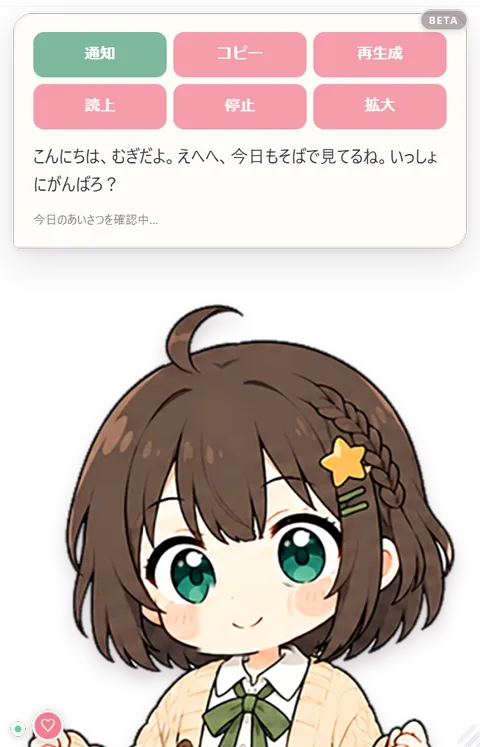
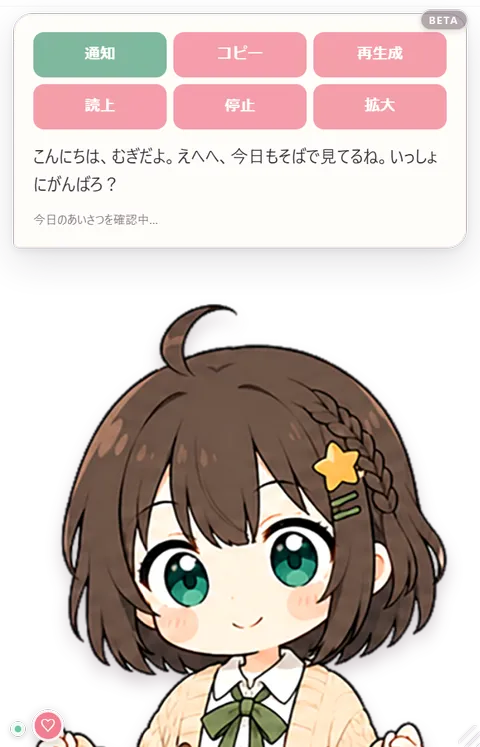
fix: 小型表示形式の紹介画像を高密度で再撮影 (#112)

Changed region(s): [[0.125, 0.4003, 0.9688, 1.0], [0.0312, 0.9545, 0.2188, 1.0], [0.5625, 0.5234, 0.5938, 0.5542]]

diff --git a/docs/CODEX-TASKS.md b/docs/CODEX-TASKS.md
@@ -2,8 +2,7 @@
 
 **直しきれなかった・環境がなくて確認できなかった項目**をここへ作業指示としてまとめる。判断の理由は
 レビュー記録、進行状況は `HANDOFF.md`、ルールは `AGENTS.md` が持ち場。ここは「次に手を動かす内容」だけ。
-現在の内容は 2026-08-13 のレビュー2巡（`docs/REVIEW-LOG.md` の「ベータ公開分の事後レビュー」）の残件と、
-2026-08-14 に追加した依存ライブラリの検討分。
+現在の内容は、完了済み項目を除いたレビュー残件と依存ライブラリの検討分。
 
 > **依存ライブラリを足すときに先に読むもの: [LIBRARY-CANDIDATES.md](LIBRARY-CANDIDATES.md)。**
 > `ui/vendor/` へ依存を置くときの制約（CSP、拡張子 allowlist、`bundle_scope.rs` の走査除外）と、
@@ -13,24 +12,6 @@
 着手したら、完了条件まで満たしてから `docs/REVIEW-LOG.md` の該当行を更新し、この項目を消す。
 
 ---
-
-## P0-1. ベータNSISを作り直して公開しなおす
-
-- **なぜ**: 公開済みの `412,114,239 bytes` / SHA-256 `cdd0…c545c` は、レビューで直した3件の不具合を**含んでいない**。
-  - 外部コマンドのタイムアウトが指定秒数で戻らない（`sh -c` / `powershell -Command` の孫プロセスがパイプを握ると回収待ちで停止）
-  - `BETA` バッジが通常ビルド・販売ビルドにも出る
-  - 文字起こし2スキル・THA3生成の同型の待ち切り
-- **やること**: `.agents/skills/build-picoagent-beta/SKILL.md` の手順どおりに `cargo xtask build-beta --bundles nsis` から再生成し、
-  `distribution/site/latest.json` のサイズ・SHA-256を実ファイルから計算して更新、Release実体と一致させて差し替える。
-- **完了条件**: NSISのサイレントインストール／アンインストール成功、`latest.json` と Release実体のサイズ・SHA-256一致、
-  生成物の `ui-dist/index.html` に `beta-badge` が**ある**こと（ベータなので残るのが正）。
-- **禁止**: 通常 `build` の成果物を使わない。古い成果物を流用・改名しない。
-
-## P0-2. 引き伸ばしのまま同梱されている静止ショット2枚を撮り直す
-
-- **なぜ**: `layout-shot-mascot.webp`（論理360px→480px）と `layout-shot-widget.webp`（440px→480px）は、引き伸ばし禁止ルールが入る前の生成物で、いま同梱・公開されているものが**引き伸ばし画像**のまま。設定画面のレイアウト選択カードと配布ページの表示形式サムネの両方に出ている。
-- **やること**: `deviceScaleFactor: 2` を指定済みなので、`node tools/screenshots/shoot.mjs layout-shot-mascot.webp layout-shot-widget.webp layout-shot-chat.webp` を実行して差し替える。旧 `layout-shot-talk.webp` はLINE風チャットへ統合したため対象外。WebPエンコーダ（`libwebp_anim`）付きのffmpegが要る。
-- **完了条件**: 4枚が480px幅で生成され、引き伸ばし検査に引っかからないこと。設定画面のカードと配布ページのサムネを実表示で確認する。
 
 ## P0-3. 配布ページの画像重量を下げる
 

diff --git a/docs/REVIEW-LOG.md b/docs/REVIEW-LOG.md
@@ -30,6 +30,19 @@
 
 ---
 
+## 2026-08-17 — 小型表示形式の紹介画像再撮影
+
+対象: `layout-shot-mascot.webp`、`layout-shot-widget.webp`、`layout-shot-chat.webp`と設定画面の表示形式カード。
+
+| # | 優先 | 指摘・確認 | 判定 | 対応・根拠 |
+|---|---|---|---|---|
+| 1 | P0 | マスコットとウィジェットの紹介画像が、実画面より小さい入力を480pxへ引き伸ばした旧成果物のまま残っていた | 対応済み | 実WebViewを`deviceScaleFactor: 2`で描画し、720px／880pxの入力から480pxへ縮小して再生成した。余裕の少ないLINE風チャットも1040px入力から同時に再生成した |
+| 2 | P1 | 設定画面回帰スクリプトが、配布UIから除外済みの`hiyori`を保存中キャラとfixtureへ固定して後段で停止する | 対応済み | 現行配布に必ず含まれる`mugi`へfixture、キャラ別配信設定、削除後の復帰先、人格確認を揃えた |
+
+検証: 対象3枚の撮影ツール内引き伸ばし検査とWebP幅検査に成功し、3枚を原寸で目視してキャラ、文字、操作部品、透明背景に欠けがないことを確認した。`cargo run --manifest-path xtask/Cargo.toml -- build-ui --release`後、設定画面の7形式カードが全件読み込まれ、差し替え画像が表示されることを確認した。
+
+---
+
 ## 2026-08-17 — 事後レビューの追加調査と PR #87 の統合（Claude）
 
 「他に修正した方が良いものはあるか」の問いを受け、(1) 直前のレビューで見つけたバグ型が他へ写っていないかの再発調査、

diff --git a/CHANGELOG.md b/CHANGELOG.md
@@ -105,7 +105,7 @@
 
 ### 2026-08-13 — 小型表示形式の紹介画像を引き伸ばさずに作る
 
-- マスコットとウィジェットの紹介画像が、実画面より小さい描画結果を480pxへ引き伸ばして作られていた。実画面を2倍密度で描画してから縮小する方式へ変更し、チャット・トークも同じ扱いにした。差し替え自体は次回の撮影で反映する。
+- マスコットとウィジェットの紹介画像が、実画面より小さい描画結果を480pxへ引き伸ばして作られていた。実画面を2倍密度で描画してから480pxへ縮小する方式で、マスコット、ウィジェット、LINE風チャットの画像を撮り直した。
 
 ### 2026-08-13 — 返金方針を確定して公開文言へ反映
 
